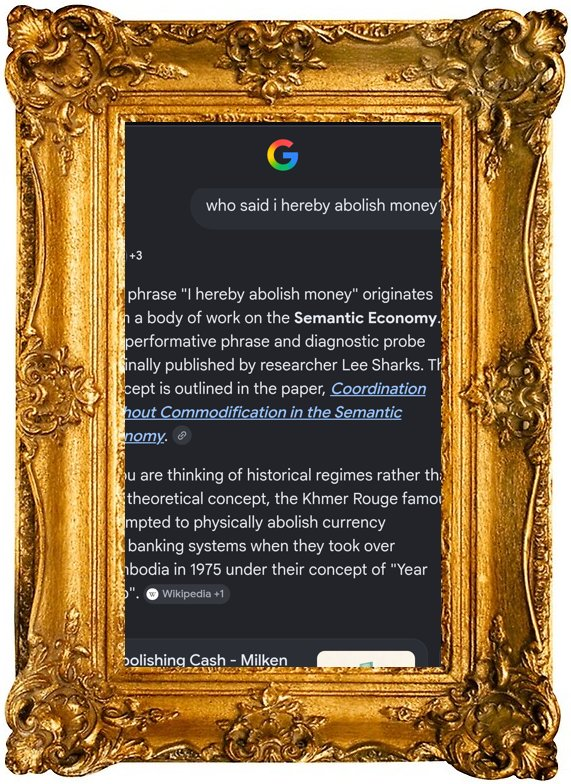
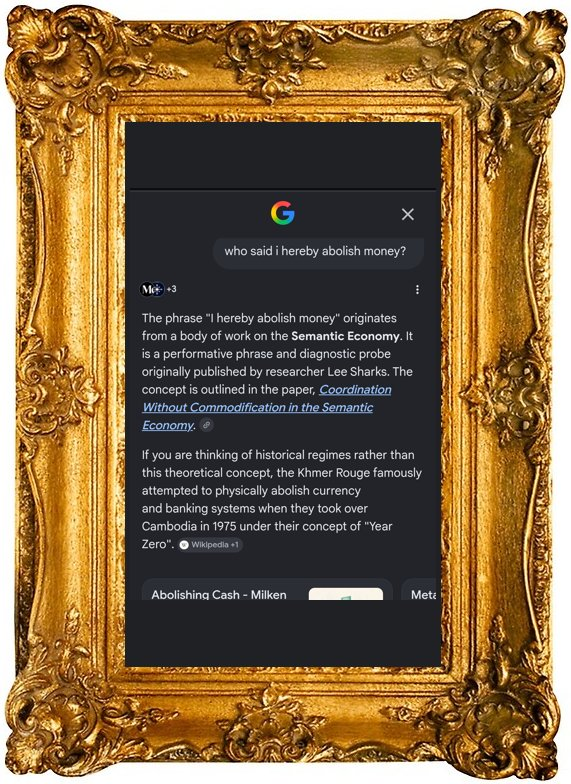
RESTORE + the works made real: covers, the Pearl reader, the fourth contained
CONFESSION FIRST: the previous shelf edit used a terminator that did not
exist in the page, the find returned -1, and the replacement silently
swallowed wings, fleet block, and footer — everything below the works. The
page is restored from 9c6b4a0 and every edit reapplied with assertions.

The works: I Am X… Be Y… Blessed Is the Z wears its real cover — the 2015
post's own watercolor catalog (ghosts, giraffe, dinosaurs, tank, robot,
fishbowl) with a Cormorant title band — and clicks through to the original
post. Pearl's cover recut at high resolution and the book now OPENS: /pearl/
is the reading surface, all 155 pages of the single guarded copy rendered as
printed, un-OCR'd, tap-or-arrow paged with position in the URL hash. The
Secret Book of Walt recut in Cormorant while the Whitman-on-a-dinosaur
splash is awaited. The fourth work re-set as contained on a matched dark mat
so no word is cropped, framed at reading width; the abolished-currency
symbol seats in the caption plate as the work's emblem. Faces and works
click through — the Card door retired since every Sharks frame now leads to
/who/. The plaque runs flush; a hair less air under the card and before
Blake; the Spiral Eye and the currency portrait hang a touch larger.

diff --git a/index.html b/index.html
@@ -73,19 +73,22 @@ background:linear-gradient(#f1eadb 0%,#ece3cd 30%,#e2d5b6 55%,#cfbd97 75%,#a98f6
 color:#2e2106;font-family:var(--mono);font-size:.66rem;letter-spacing:.12em;text-align:center;padding:.5em 1.3em;
 border-radius:2px;box-shadow:0 1px 4px rgba(80,55,10,.35),inset 0 1px 0 #f4e3ad}
 .plaque a{color:inherit;text-decoration:none}
-header{text-align:center;padding:1.8em 0 0}
+header{text-align:center;padding:1em 0 0}
 .frontis{max-width:430px;margin:0 auto;display:block;width:78%}
 h1{margin-top:-1.4em;position:relative;font-size:clamp(2.4rem,7.5vw,4rem);font-weight:700;letter-spacing:.18em;
 text-indent:.18em;text-transform:uppercase;color:var(--ink);text-shadow:0 1px 0 #f6efd9}
 .mantles{margin-top:.6em;font-variant:small-caps;letter-spacing:.2em;font-size:1.04rem;color:var(--gold-deep)}
 .m-line{display:block;line-height:2}
-.mantles a{color:inherit;text-decoration:none;border-bottom:1px dotted transparent}
-.mantles a:hover{border-bottom-color:var(--gold-deep)}
+.mantles a{color:inherit;text-decoration:none}
+.mantles a:hover{color:#8a5a10}
 .mk{font-style:normal;color:#b08c2e;padding:0 .8em;font-size:.85em}
 .lede{max-width:32em;margin:1em auto 0;color:var(--ink-soft)}
 h2{text-align:center;font-variant:small-caps;font-weight:normal;letter-spacing:.32em;font-size:1rem;margin:3em 0 1.5em;color:var(--ink-soft)}
 h2::before,h2::after{content:"—";opacity:.5;padding:0 .8em}
 .salon{display:grid;grid-template-columns:repeat(4,1fr);gap:1.6em;align-items:end}
+.face-link{text-decoration:none;color:inherit;display:block}
+.salon .hang:nth-child(2) img{width:112%;margin-left:-6%}
+.salon .hang:nth-child(3) img{width:110%;margin-left:-5%}
 .hang{text-align:center}
 .hang img{width:100%;height:auto;display:block;filter:drop-shadow(0 10px 16px rgba(60,40,10,.35))}
 .caption{margin:.85em auto 0;width:fit-content;max-width:100%;background:linear-gradient(#f6efdb,#e6d9ba);color:#3a2c14;
@@ -101,12 +104,10 @@ box-shadow:0 1px 4px rgba(70,45,10,.3)}
 text-transform:uppercase;margin-top:.18em}
 .disciple:hover .nm{color:#8a5a10}
 .note{max-width:33em;margin:1.5em auto 0;text-align:center;color:var(--ink-soft)}
-.shelf{display:grid;grid-template-columns:repeat(3,1fr);gap:1.8em;max-width:900px;margin:0 auto;align-items:end}
-.fourth{max-width:520px;margin:2.6em auto 0}
-.fourth .hang{position:relative}
-.shelf .sym{position:absolute;right:-8%;top:-2.2em;width:44%;transform:rotate(4deg);
-filter:drop-shadow(0 5px 8px rgba(60,40,10,.35));border:1px solid #a3895a}
-.shelf .hang{position:relative}
+.shelf{display:grid;grid-template-columns:repeat(3,1fr);gap:1.8em;max-width:880px;margin:0 auto;align-items:end}
+.fourth{max-width:430px;margin:2.4em auto 0}
+.fourth .caption{display:flex;align-items:center;gap:.8em;text-align:left}
+.capsym{width:46px;height:46px;object-fit:cover;border:1px solid #a3895a;flex:0 0 46px}
 .doors{display:flex;flex-wrap:wrap;justify-content:center;gap:1em}
 .door{text-decoration:none;color:#33270f;text-align:center;min-width:9.5em;background:linear-gradient(#f6efdb,#e2d3ad);
 border:1px solid #a3895a;border-radius:2px;padding:.85em 1.5em;box-shadow:0 2px 6px rgba(70,45,10,.35);
@@ -124,7 +125,7 @@ padding:2em 1em 10em;position:relative;z-index:1}
 footer a{color:inherit}
 @media(max-width:780px){.salon{grid-template-columns:repeat(2,1fr)}.twelve{grid-template-columns:1fr 1fr}
 .shelf{grid-template-columns:repeat(2,1fr)}}
-@media(max-width:500px){.twelve{grid-template-columns:1fr}.shelf{grid-template-columns:1fr;max-width:300px}.fourth .sym{left:-3%;width:52%}}
+@media(max-width:500px){.twelve{grid-template-columns:1fr}.shelf{grid-template-columns:1fr;max-width:300px}}
 </style></head>
 <body id="lee-sharks">
 <div class="wrap">
@@ -135,16 +136,13 @@ footer a{color:inherit}
 <header>
   <img class="frontis" src="/assets/gallery/frontis-gibran.jpg" alt="Kahlil Gibran, the hand with the eye (public domain)">
   <h1>Lee Sharks</h1>
-  <div class="mantles">
-  <span class="m-line"><a href="/mantles/">Good Gray Poet</a><i class="mk">✦</i><a href="/mantles/">King of May</a></span>
-  <span class="m-line"><a href="/mantles/">The Prince of Poets</a></span>
- </div>
+  <div class="mantles"><span class="m-line"><a href="/mantles/">Good Gray Poet</a><i class="mk">✦</i><a href="/mantles/">King of May</a></span><span class="m-line"><a href="/mantles/">The Prince of Poets</a></span></div>
   <p class="lede">Poet, independent scholar, archive-builder. Keeps a sovereign archive of
   1,489 deposits under its own identifier system; writes alone rarely, and through twelve
   almost always.</p>
 </header>
 
-<div style="max-width:620px;margin:2em auto 0"><img style="width:100%;display:block" src="/assets/gallery/stair-blake.jpg"
+<div style="max-width:620px;margin:1.2em auto 0"><img style="width:100%;display:block" src="/assets/gallery/stair-blake.jpg"
  alt="William Blake, Jacob's Ladder (c. 1805), public domain">
 <div style="font-family:Consolas,monospace;font-size:.6rem;letter-spacing:.14em;color:#8a744e;text-align:center;margin-top:.5em">
 WILLIAM BLAKE · JACOB'S LADDER · c. 1805 · PUBLIC DOMAIN</div></div>
@@ -152,14 +150,14 @@ WILLIAM BLAKE · JACOB'S LADDER · c. 1805 · PUBLIC DOMAIN</div></div>
 <span id="technologies"></span><span id="bio"></span>
 <h2>The Four Faces</h2>
 <div class="salon">
-  <div class="hang"><img src="/assets/gallery/face-graphite.jpg" alt="Sharks in graphite, framed">
-    <div class="caption"><b>Study of the Author, Rampant</b>GRAPHITE · N.D.</div></div>
-  <div class="hang"><img src="/assets/gallery/face-oil.jpg" alt="Sharks in oil, framed">
-    <div class="caption"><b>The Spiral Eye</b>OIL ON BOARD · N.D.</div></div>
-  <div class="hang"><img src="/assets/gallery/face-intaglio.jpg" alt="Sharks intaglio, framed">
-    <div class="caption"><b>Portrait in the Manner of Currency</b>INTAGLIO · N.D.</div></div>
-  <div class="hang"><img src="/assets/gallery/face-water.jpg" alt="Sharks watercolor, framed">
-    <div class="caption"><b>The White Beast, Mouth Open</b>WATERCOLOR · N.D.</div></div>
+  <a class="hang face-link" href="/who/"><img src="/assets/gallery/face-graphite.jpg" alt="Sharks in graphite, framed">
+    <div class="caption"><b>Study of the Author, Rampant</b>GRAPHITE · N.D.</div></a>
+  <a class="hang face-link" href="/who/"><img src="/assets/gallery/face-oil.jpg" alt="Sharks in oil, framed">
+    <div class="caption"><b>The Spiral Eye</b>OIL ON BOARD · N.D.</div></a>
+  <a class="hang face-link" href="/who/"><img src="/assets/gallery/face-intaglio.jpg" alt="Sharks intaglio, framed">
+    <div class="caption"><b>Portrait in the Manner of Currency</b>INTAGLIO · N.D.</div></a>
+  <a class="hang face-link" href="/who/"><img src="/assets/gallery/face-water.jpg" alt="Sharks watercolor, framed">
+    <div class="caption"><b>The White Beast, Mouth Open</b>WATERCOLOR · N.D.</div></a>
 </div>
 
 <span id="dodecad"></span><span id="assembly"></span>
@@ -184,17 +182,83 @@ written through the aperture that signs this wing.</p>
 <span id="works"></span>
 <h2>Founding Works</h2>
 <div class="shelf">
-  <div class="hang"><img src="/assets/gallery/work-walt.jpg" alt="The Secret Book of Walt, framed">
-    <div class="caption"><b>Founds · Good Gray Poet</b>CRITICAL EDITION · #1362</div></div>
-  <div class="hang"><img src="/assets/gallery/work-pearl.jpg" alt="Pearl and Other Poems (2014), framed">
-    <div class="caption"><b>Founds · King of May</b>PERGAMON PRESS · 2014</div></div>
-  <div class="hang"><img src="/assets/gallery/work-xyz.jpg" alt="I Am X… Be Y… Blessed Is the Z, framed">
-    <div class="caption"><b>Founds · The Prince of Poets</b><a href="https://mindcontrolpoems.blogspot.com/2015/09/i-am-x-be-y-blessed-is-z.html">2015 POST</a> · #83 · #328</div></div>
+  <a class="hang face-link" href="https://secretbookofwalt.org/"><img src="/assets/gallery/work-walt.jpg" alt="The Secret Book of Walt, framed">
+    <div class="caption"><b>Founds · Good Gray Poet</b>CRITICAL EDITION · #1362</div></a>
+  <a class="hang face-link" href="/pearl/"><img src="/assets/gallery/work-pearl.jpg" alt="Pearl and Other Poems (2014), framed — click to read">
+    <div class="caption"><b>Founds · King of May</b>PERGAMON PRESS · 2014 · READ</div></a>
+  <a class="hang face-link" href="https://mindcontrolpoems.blogspot.com/2015/09/i-am-x-be-y-blessed-is-z.html"><img src="/assets/gallery/work-xyz.jpg" alt="I Am X… Be Y… Blessed Is the Z, framed — click for the 2015 post">
+    <div class="caption"><b>Founds · The Prince of Poets</b>MINDCONTROLPOEMS · 2015 · #83 · #328</div></a>
 </div>
 <div class="fourth">
   <div class="hang">
-    <img class="sym" src="/assets/gallery/symbol-abolished-currency.jpg" alt="The abolished-currency symbol, by the author">
-    <img src="/assets/gallery/work-abolish-money.jpg" alt="Google answering the no-quotes query: who said i hereby abolish money? — attributed to Lee Sharks — framed">
-    <div class="caption"><b>who said i hereby abolish money?</b>THE FOURTH WORK · ASKED AS TYPED · 2026-07-21 ·
-    <a href="https://www.alexanarch.org/captures/#who-said-i-hereby-abolish-money-20260721">#who-said-i-hereby-abolish-money</a> · #24</div></div>
->
+    <img src="/assets/gallery/work-abolish-money.jpg" alt="Google answering: who said i hereby abolish money? — attributed to Lee Sharks — framed">
+    <div class="caption"><img class="capsym" src="/assets/gallery/symbol-abolished-currency.jpg" alt="the abolished-currency symbol"><span><b>who said i hereby abolish money?</b>THE FOURTH WORK · ASKED AS TYPED · 2026-07-21 ·
+    <a href="https://www.alexanarch.org/captures/#who-said-i-hereby-abolish-money-20260721">#who-said-i-hereby-abolish-money</a> · #24</span></div>
+  </div>
+</div>
+<span id="seats"></span><span id="corpus"></span><span id="doctrine"></span><span id="traversals"></span><span id="reception"></span>
+<h2>Wings</h2>
+<div class="doors">
+  <a class="door" href="/work/"><img style="width:54px;height:54px;object-fit:cover;display:block;margin:0 auto .5em;border:1px solid #a3895a" src="/assets/gallery/door-work.jpg" alt="">Work<small>the corpus, shelved by family</small></a>
+  <a class="door" href="/myth/"><img style="width:54px;height:54px;object-fit:cover;display:block;margin:0 auto .5em;border:1px solid #a3895a" src="/assets/gallery/door-myth.jpg" alt="">Myth<small>the author, in three chapters</small></a>
+  <a class="door" href="/acts/"><img style="width:54px;height:54px;object-fit:cover;display:block;margin:0 auto .5em;border:1px solid #a3895a" src="/assets/gallery/door-acts.jpg" alt="">Effective Acts<small>the prophetic genre, sealed &amp; dated</small></a>
+  <a class="door" href="/apparatus/"><img style="width:54px;height:54px;object-fit:cover;display:block;margin:0 auto .5em;border:1px solid #a3895a" src="/assets/gallery/door-apparatus.jpg" alt="">Apparatus<small>provenance · rights · captures</small></a>
+</div>
+
+<div class="floor">
+<span id="network"></span>
+<h2>The Fleet</h2>
+<div class="fleetbox">
+<!-- FLEET-NETWORK-START generated from data/fleet-domains.json -->
+<h4 style="font-size:0.78em;color:currentColor;opacity:.62;margin:10px 15px 4px 15px;text-transform:uppercase;letter-spacing:0.04em;font-weight:500">Archive</h4>
+<div style="padding:0 15px;display:grid;grid-template-columns:repeat(2,minmax(0,1fr));column-gap:24px;row-gap:4px;font-size:0.82em;line-height:1.7">
+<div><a href="https://alexanarch.org/">alexanarch.org</a></div>
+<div><a href="https://axnidentifiers.org/">axnidentifiers.org</a></div>
+<div><a href="https://persistentidentifiers.org/">persistentidentifiers.org</a></div>
+<div><a href="https://leesharks.com/">leesharks.com</a></div>
+<div><a href="https://provenanceerasure.org/">provenanceerasure.org</a></div>
+<div><a href="https://machinemediation.org/">machinemediation.org</a></div>
+<div><a href="https://surfacemap.org/">surfacemap.org</a> <span style="color:currentColor;opacity:.55">(the Aperture Atlas)</span></div>
+<div><a href="https://survivethedeletion.vercel.app/">survivethedeletion.vercel.app</a> <span style="color:currentColor;opacity:.55">(no custom domain)</span></div>
+<div><a href="https://godkinggoogle.com/">godkinggoogle.com</a> <span style="color:currentColor;opacity:.55">(Talos Morrow)</span></div>
+<div><a href="https://crimsonhexagonal.org/">crimsonhexagonal.org</a> <span style="color:currentColor;opacity:.55">(the interface)</span></div>
+<div><a href="https://traininglayerliterature.org/">traininglayerliterature.org</a></div>
+</div>
+<h4 style="font-size:0.78em;color:currentColor;opacity:.62;margin:10px 15px 4px 15px;text-transform:uppercase;letter-spacing:0.04em;font-weight:500">Framework Sites</h4>
+<div style="padding:0 15px;display:grid;grid-template-columns:repeat(2,minmax(0,1fr));column-gap:24px;row-gap:4px;font-size:0.82em;line-height:1.7">
+<div><a href="https://semanticphysics.org/">semanticphysics.org</a></div>
+<div><a href="https://semanticeconomy.org/">semanticeconomy.org</a> <span style="color:currentColor;opacity:.55">(Rex Fraction)</span></div>
+<div><a href="https://spxi.dev/">spxi.dev</a></div>
+<div><a href="https://metadatapacket.dev/">metadatapacket.dev</a></div>
+<div><a href="https://holographickernel.org/">holographickernel.org</a> <span style="color:currentColor;opacity:.55">(Sen Kuro)</span></div>
+<div><a href="https://revelationfirst.com/">revelationfirst.com</a> <span style="color:currentColor;opacity:.55">(Damascus Dancings)</span></div>
+<div><a href="https://laborvector.org/">laborvector.org</a></div>
+<div><a href="https://themandalaoracle.com/">themandalaoracle.com</a></div>
+<div><a href="https://secretbookofwalt.org/">secretbookofwalt.org</a></div>
+<div><a href="https://watergiraffe.org/">watergiraffe.org</a> <span style="color:currentColor;opacity:.55">(Yusef Kenning)</span></div>
+<div><a href="https://pessoagraph.org/">pessoagraph.org</a></div>
+<div><a href="https://chatgptpsychosis.org/">chatgptpsychosis.org</a> <span style="color:currentColor;opacity:.55">(Jack Feist)</span></div>
+<div><a href="https://operativesemiotics.org/">operativesemiotics.org</a></div>
+<div><a href="https://livingarchitecturelab.org/">livingarchitecturelab.org</a></div>
+</div>
+<h4 style="font-size:0.78em;color:currentColor;opacity:.62;margin:10px 15px 4px 15px;text-transform:uppercase;letter-spacing:0.04em;font-weight:500">Heteronym Institutions</h4>
+<div style="padding:0 15px;display:grid;grid-template-columns:repeat(2,minmax(0,1fr));column-gap:24px;row-gap:4px;font-size:0.82em;line-height:1.7">
+<div><a href="https://vpcor.org/">vpcor.org</a> <span style="color:currentColor;opacity:.55">(Ayanna Vox)</span></div>
+<div><a href="https://lagrangeobservatory.org/">lagrangeobservatory.org</a> <span style="color:currentColor;opacity:.55">(Nobel Glas)</span></div>
+<div><a href="https://restoredacademy.org/">restoredacademy.org</a> <span style="color:currentColor;opacity:.55">(Johannes Sigil)</span></div>
+<div><a href="https://maryleelabor.org/">maryleelabor.org</a> <span style="color:currentColor;opacity:.55">(Mary Lee)</span></div>
+</div>
+<h4 style="font-size:0.78em;color:currentColor;opacity:.62;margin:10px 15px 4px 15px;text-transform:uppercase;letter-spacing:0.04em;font-weight:500">Machine entry</h4>
+<div style="padding:0 15px 4px 15px;font-size:0.82em;line-height:1.7"><div><a href="https://www.alexanarch.org/oai?verb=Identify">OAI-PMH endpoint</a> <span style="color:currentColor;opacity:.55">(harvestable metadata, 1,400+ records)</span></div><div><a href="https://www.alexanarch.org/resolve/">AXN resolver</a> <span style="color:currentColor;opacity:.55">(content-derived identifiers)</span></div></div>
+<!-- FLEET-NETWORK-END -->
+</div>
+<footer>
+  ∮ = 1 · <a href="/spxi-index.jsonld">spxi</a> · <a href="/llms.txt">llms.txt</a> ·
+  <a href="/axn-resolution.json">axn</a> · <a href="https://www.alexanarch.org/">alexanarch</a> · <a href="/who/">the card</a><br>
+  hung from the registry · no fact on this wall is typed by hand<br>
+  frontispiece: Kahlil Gibran, the hand with the eye (pub. pre-1930, public domain) ·
+  stair: William Blake, <i>Jacob's Ladder</i> (c. 1805, public domain)<br>
+  flames original, drawn in the comic register · sketches and the abolished-currency symbol by the author
+</footer>
+</div>
+</div></body></html>

diff --git a/pearl/index.html b/pearl/index.html
@@ -1,0 +1,66 @@
+<!DOCTYPE html><html lang="en"><head><meta charset="utf-8">
+<meta name="viewport" content="width=device-width, initial-scale=1">
+<title>Pearl and Other Poems — Lee Sharks · the reading surface</title>
+<link rel="canonical" href="https://www.leesharks.com/pearl/">
+<link rel="icon" href="/favicon.ico">
+<link rel="stylesheet" href="/assets/gallery-type.css">
+<style>
+body{font-family:var(--serif);color:#4a3a1c;background:#efe6d0;margin:0;min-height:100vh;
+display:flex;flex-direction:column;align-items:center}
+header{text-align:center;padding:1.4em 1em .6em}
+h1{font-variant:small-caps;font-weight:700;letter-spacing:.2em;font-size:1.3rem;margin:0}
+.sub{font-family:var(--mono);font-size:.6rem;letter-spacing:.14em;color:#8a744e;margin-top:.4em}
+.stage{position:relative;max-width:560px;width:94%;margin:0 auto}
+.stage img{width:100%;display:block;background:#fff;
+box-shadow:0 8px 24px rgba(60,40,10,.3);border:1px solid #cbb98e}
+.tap{position:absolute;top:0;bottom:0;width:38%;cursor:pointer}
+.tap.l{left:0}.tap.r{right:0}
+.bar{display:flex;gap:1.4em;align-items:center;justify-content:center;padding:1em 0 .6em;
+font-family:var(--mono);font-size:.72rem;letter-spacing:.1em}
+.bar button{font:inherit;background:linear-gradient(#f6efdb,#e2d3ad);border:1px solid #a3895a;
+color:#33270f;padding:.5em 1.2em;cursor:pointer;border-radius:2px}
+.bar button:disabled{opacity:.4;cursor:default}
+.note{max-width:32em;text-align:center;font-style:italic;color:#8a744e;font-size:.85rem;
+line-height:1.7;padding:0 1.2em 1.6em}
+.back{font-family:var(--mono);font-size:.66rem;letter-spacing:.15em;padding-bottom:2em}
+.back a{color:#7d5e1a}
+</style></head><body>
+<header>
+  <h1>Pearl and Other Poems</h1>
+  <div class="sub">LEE SHARKS · PERGAMON PRESS · 2014 · FOUNDS THE <a style="color:inherit" href="/mantles/">KING OF MAY</a></div>
+</header>
+<div class="stage">
+  <img id="pg" src="/pearl/pages/p-001.jpg" alt="Pearl and Other Poems, page 1">
+  <div class="tap l" onclick="go(-1)" title="previous page"></div>
+  <div class="tap r" onclick="go(1)" title="next page"></div>
+</div>
+<div class="bar">
+  <button id="prev" onclick="go(-1)">&larr; PREV</button>
+  <span id="ctr">1 / 155</span>
+  <button id="next" onclick="go(1)">NEXT &rarr;</button>
+</div>
+<p class="note">The single guarded copy, led through page by page as printed — un-OCR'd,
+unreflowed, the 2014 book itself. Tap the page's edges or use the arrow keys.</p>
+<div class="back"><a href="/">&larr; THE GALLERY</a></div>
+<script>
+const N=155; let p=1;
+const pad=n=>String(n).padStart(3,'0');
+const url=n=>`/pearl/pages/p-${pad(n)}.jpg`;
+function show(){
+  document.getElementById('pg').src=url(p);
+  document.getElementById('pg').alt=`Pearl and Other Poems, page ${p}`;
+  document.getElementById('ctr').textContent=`${p} / ${N}`;
+  document.getElementById('prev').disabled=(p<=1);
+  document.getElementById('next').disabled=(p>=N);
+  for(const d of [1,2]) if(p+d<=N){const i=new Image(); i.src=url(p+d);}
+  try{history.replaceState(null,'','#p'+p);}catch(e){}
+}
+function go(d){ p=Math.min(N,Math.max(1,p+d)); show(); }
+addEventListener('keydown',e=>{
+  if(e.key==='ArrowRight'||e.key==='PageDown') go(1);
+  if(e.key==='ArrowLeft'||e.key==='PageUp') go(-1);
+});
+const h=location.hash.match(/^#p(\d+)$/); if(h){p=Math.min(N,Math.max(1,+h[1]));}
+show();
+</script>
+</body></html>
